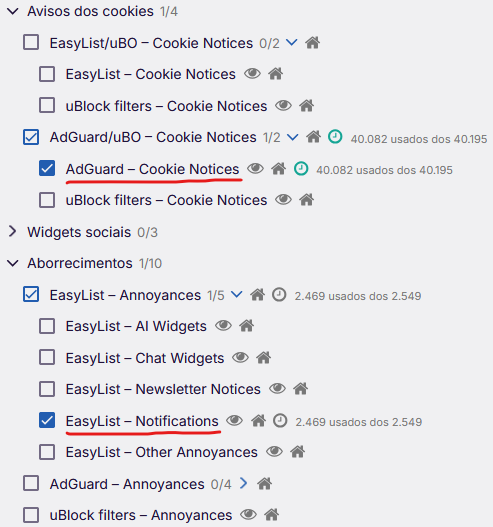
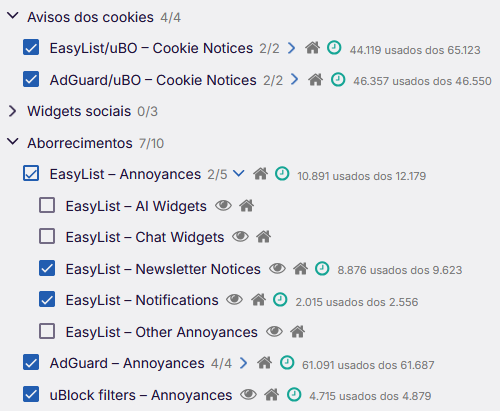
docs(guides): rename the guide from "testando rede com mtr no windows 11" to "testando rede no windows 11" and update its content

Changed region(s): [[0.0, 0.0, 1.0, 0.9927], [0.0, 0.4964, 0.0304, 0.5255]]

diff --git a/docs/.vitepress/config.ts b/docs/.vitepress/config.ts
@@ -75,7 +75,7 @@ export default defineConfig({
           { text: "⚙ Meus Ajustes Gerais", link: "/guias/meus-ajustes-gerais" },
           { text: "🎬 Configurando um servidor de mídia", link: "/guias/configurando-um-servidor-de-midia" },
           { text: "📽 Instalando HEVC no Windows 11", link: "/guias/instalando-hevc-no-windows-11" },
-          { text: "🛜 Testando rede com MTR no Windows 11", link: "/guias/testando-rede-com-mtr-no-windows-11" },
+          { text: "🛜 Testando rede no Windows 11", link: "/guias/testando-rede-no-windows-11" },
           { text: "📺 Instalando TizenTube no Fire TV com Android", link: "/guias/instalando-tizentube-no-firetv-com-android" },
           { text: "📄 Lista de softwares úteis", link: "/guias/lista-de-softwares-uteis" },
           { text: "🖼 Corrigindo miniaturas MP4 no Windows 11", link: "/guias/corrigindo-miniaturas-mp4-no-windows-11" },

diff --git a/docs/guias/testando-rede-com-no-windows-11.md b/docs/guias/testando-rede-com-no-windows-11.md
@@ -1,0 +1,54 @@
+<!-- markdownlint-disable MD040 -->
+
+# 🛜 Testando rede no Windows 11
+
+:::tip 💡 Confiabilidade
+Use cabo Ethernet ao invés do Wi-Fi.
+:::
+
+:::info ℹ Mais informações
+[ServerSP](https://serversp.com.br/blog/informacoes/mtr-teste-rede-windows-linux/)
+
+[LazyAdmin](https://lazyadmin.nl/it/pathping-command/)
+:::
+
+## 🐧 MTR
+
+Baixe o [Cygwin](https://www.cygwin.com/) e execute no terminal:
+
+```
+setup-x86_64.exe -q -R C:\cygwin64 -s https://linorg.usp.br/cygwin/ -W -P automake,pkg-config,make,gcc-core,libncurses-devel,libjansson-devel
+```
+
+Execute no terminal do Cygwin:
+
+```
+git clone https://github.com/traviscross/mtr
+cd mtr
+find . -type f -not -path './.git/*' -exec sed -i 's/\r$//' {} \;
+bootstrap.sh && ./configure && make
+make install
+echo 'export PATH="/usr/local/sbin:$PATH"' >> ~/.bashrc
+```
+
+Reinicie o terminal do Cygwin e execute:
+
+```
+mtr -4 -c 1000 -i 0.5 -n -r 8.8.8.8
+mtr -6 -c 1000 -i 0.5 -n -r 2001:4860:4860::8888
+```
+
+## 🪟 WinMTR
+
+Baixe o software [aqui](https://winmtr.net/).
+
+Desative a opção de resolver nomes.
+
+## 🪟 Pathping
+
+Execute no terminal:
+
+```
+pathping -4 -q 10 -n -p 100 -w 500 8.8.8.8
+pathping -6 -q 10 -n -p 100 -w 500 2001:4860:4860::8888
+```
